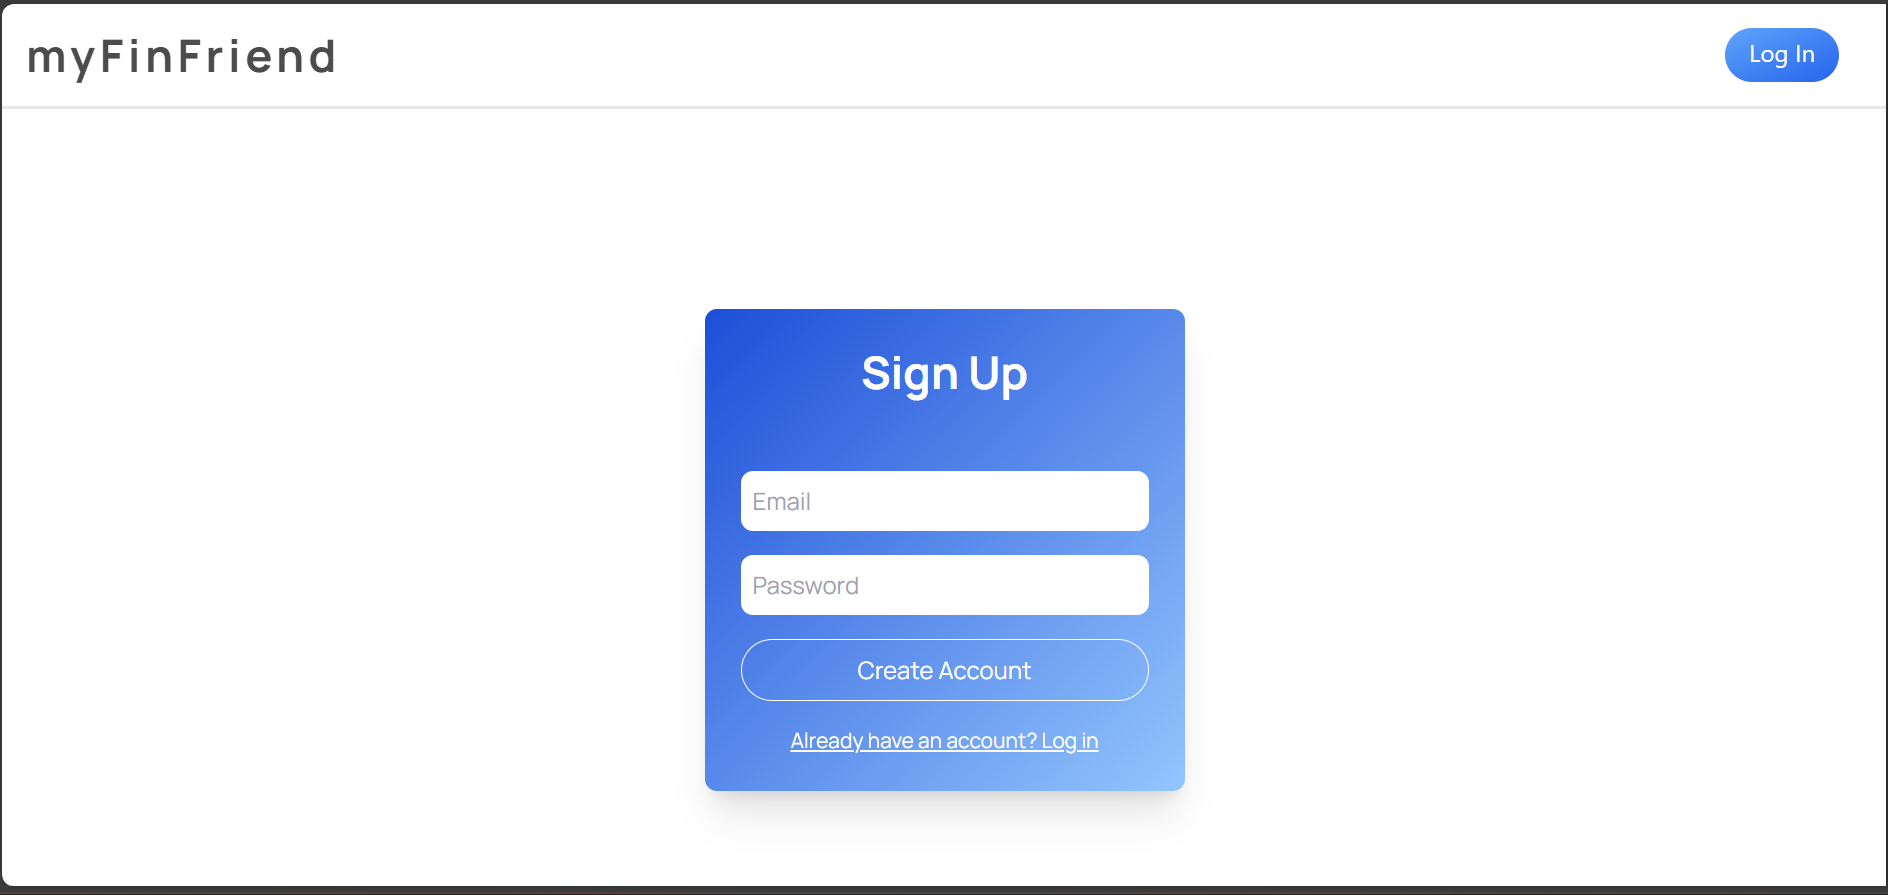
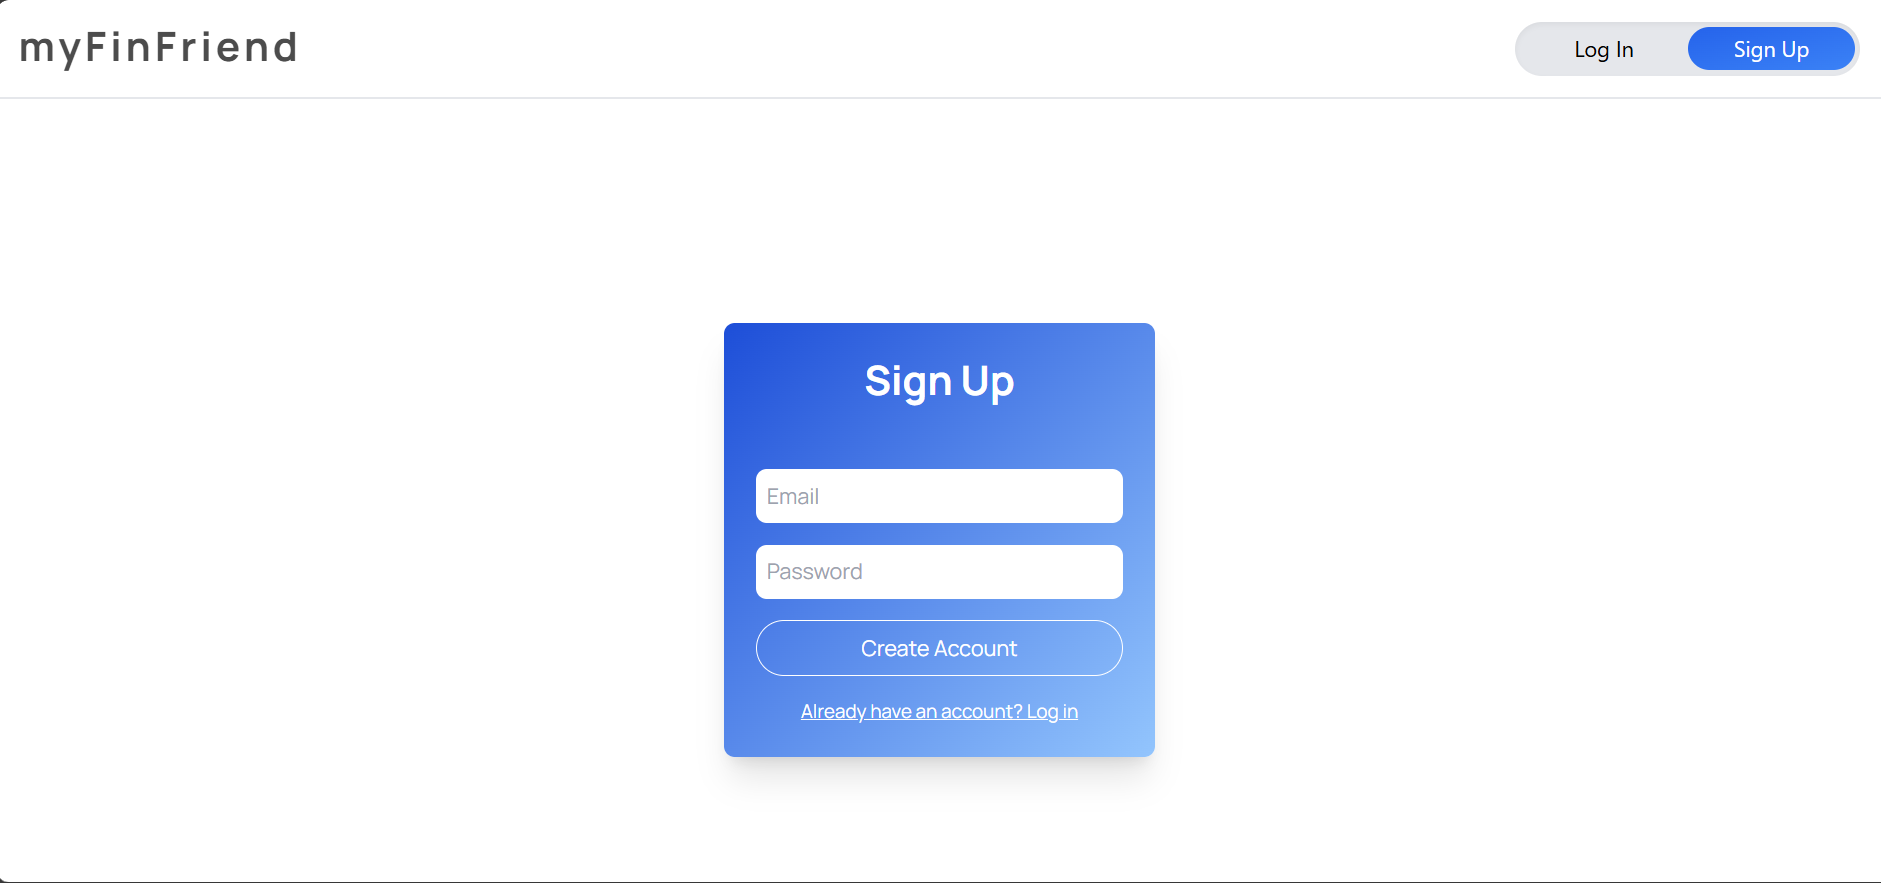
Updated the README.md with more description.

diff --git a/README.md b/README.md
@@ -18,7 +18,7 @@ A personal financial management web-app that integrates AI-powered tools to keep
 
 [![Google Gen-Ai](https://img.shields.io/badge/GoogleGenAI-1.57.0-darkblue)](https://ai.google.dev/gemini-api/docs/models#gemini-3-flash)
 
-# How to run
+# How to run if you fork it.
 ## Frontend
 - Navigate to the folder "frontend" and then type `npm install`
 - Wait until the system is done downloading.
@@ -28,29 +28,44 @@ A personal financial management web-app that integrates AI-powered tools to keep
 - Navigate to the folder "source" and then type `pip install -r requirements.txt` to download the requirements
 - Then, type `python main` to run the backend while running the frontend.
 
-# UI/UX website
+
+# About Website
 ## Dashboard page
 ![App Screenshot](frontend/public/images/dashboard.png)
-- The main page that allow user to upload the file (.csv or .pdf) to the website.
-- The website allow them to put the start date and end date to view the income, expense and balance between the date.
-- There are five information for the user to view: Income box, expense box, balance box, expense categories, and the comparison of income and expense.
-- There are some buttons to route the other pages: `View transactions`, `avatar-icon`
+- The main page where users can upload files (.csv or .pdf) to the website.
+- Users can select a start date and end date to view income, expenses, and balance within a specific time range.
+- A reset filter option is available to clear the selected date range.
+- Five key financial insights are displayed:
+    - Total Income
+    - Total Expense
+    - Balance
+    - Expense Categories
+    - Income vs Expense Comparison
+- Navigation buttons are provided to access other pages, including View Transactions and the Profile (avatar icon)
 
 ## Details page
 ![App Screenshot](frontend/public/images/detail-page.png)
-- The date range function with frequency allows the user to view the finance based on the frequency and the date between so that they can know how much they have spent in each frequency (weekly, monthly, quarterly) between the date.
-- There are toggles that allow user to change three tables (income, expense, and all transactions)
+- Users can analyse their finances using a date range and frequency filter (weekly, monthly, or quarterly).
+- This helps users understand spending patterns over time.
+- A reset filter button allows users to clear all inputs easily.
+- Toggle buttons let users switch between three tables:
+    - Income
+    - Expense
+    - All Transactions
+- Users can create, edit, and delete transactions directly from this page.
+- Each action (create,edit,delate), the user can receive notification to know if the action is successful.
 
 ## SignUp&LogIn page
 ![App Screenshot](frontend/public/images/log-in&sign-up-page.png)
-- Allow the user to sign up their account if they didn't have any account.
-- Allow the user to change to log in page for accessing their account.
+- Allows new users to create an account.
+- Existing users can log in to access their personal finance data.
+- Users can easily switch between the sign-up and log-in pages.
 
 ## Profile page
 ![App Screenshot](frontend/public/images/profile-page.png)
-- Allow the user to know which the account is.
-- Allow to go to dashboard and details transaction
-- Allow the user to log out the account with the notification "Successfully log out"
+- Displays the currently logged-in account information.
+- Provides quick navigation to the Dashboard and Transaction Details pages.
+- Users can log out, with a confirmation notification: “Successfully logged out”.
   
 ---
 